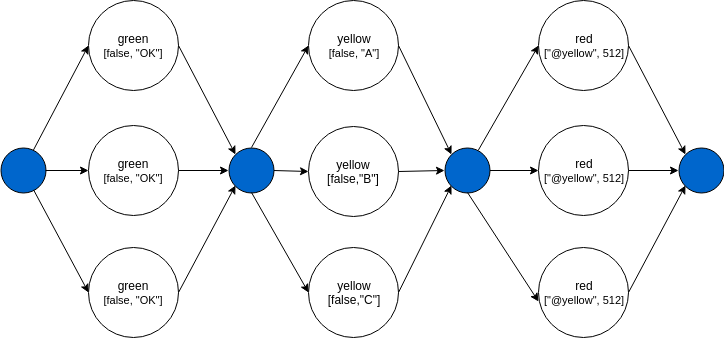
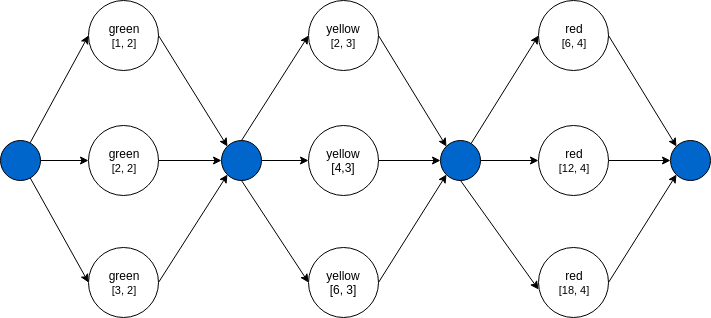
update README.md

diff --git a/core/api-server/README.md b/core/api-server/README.md
@@ -43,8 +43,7 @@ The reasons for choosing this structure are:
 
 ![Diagram](/docs/images/DAG.png)
 
-In order to create this pipeline flow, we need to specify  
-a node list which look like this:  
+In order to create this pipeline flow, we need to specify a node list which look like this:
 
 ```js
 "nodes": [{
@@ -84,7 +83,7 @@ a node list which look like this:
 }]
 ```
 
-*The order of the nodes in this list is not relevant*
+*The order the nodes are written does not relevant*
 
 Each node has three properties.  
 - **nodeName**: the node unique identifier in the current pipeline. 
@@ -100,8 +99,7 @@ Node D will run after Node B and G (["@B", "@G"])
 Node E will run after Node B, C, D (["@B", "@C", "@D"])
 Node F will run after Node E (["@E"])
 
-You can see that the order and the direction of the  
-pipeline is determined by the node **input**.
+You can see that the order and the direction of the pipeline is determined by the node **input**.
 
 ### Entry Nodes
 
@@ -135,13 +133,12 @@ The order is only important for the algorithm signature.
 
 ## Execution Flow
 
-Beside these data types, there are special signs that designed  
-to define the pipeline execution flow.
+Beside these data types, there are special signs that designed to define the pipeline execution flow.
 
-- (@)  - [Reference](#Reference)
-- (#)  - [Batch](#Batch)
-- (#@) - [Batch Reference](#Batch Reference)
-- (*@) - [Wait Any](#Wait Any)
+- (@)  - [Reference](#reference)
+- (#)  - [Batch](#batch)
+- (#@) - [Batch Reference](#batch-reference)
+- (*@) - [Wait Any](#wait-any)
 
 ### Flow Input
 
@@ -188,7 +185,7 @@ Or batch
 }
 ```
 
-Now the example algorithm will run with this input:
+And the algorithm will run three times with this input:
 
 ```js
 example-alg 1: [42, true, ["links-1"], null, {foo: "bar"}]
@@ -223,13 +220,12 @@ The DAG of this pipeline will look like:
 ![Diagram](/docs/images/simple-pipeline.png)
 
 
-The blue circle is the **pipeline driver** which responsible for  
-executing nodes with the right order and the right input.  
-Each result from any node is always return to the pipeline driver which decide what to do next.  
+The blue circle is the **pipeline driver** which responsible for executing nodes with the right order and the right input.  Each result from any node is always return to the pipeline driver which decide what to do next.  
 
-The green node will run first because it does not depend on any other node.  
+**Green node** will run first because it does not depend on any other node.  
 Green node input will be: [false, "OK"].  
-Yellow node depends on green node, see the "@green" in the input of the yellow node.  
+
+**Yellow node** depends on green node, see the "@green" in the input of the yellow node.  
 So the input of the yellow node will be: [true, **green node output**].  
 The last node to run will be the red node because it depend on the completion of  
 the yellow node. The input of the red node will be: [**yellow node output**, 512].  
@@ -279,9 +275,8 @@ The input of the red node will be: [yellow node output, 512].
 
 ## Batch Tolerance
 
-The Batch Tolerance is a threshold setting that allow to  
-control in which **percent** the entire pipeline should be failed.  
-In this example the pipeline will failed if 3/5 from green node batch items has failed. 
+The Batch Tolerance is a threshold setting that allow to control in which **percent** from the batch processing the entire pipeline should be fail.  
+In this example we define batch tolerance of 60%, which means that we allow max of 60% from the batch items to be fail. 
 
 ```js
 "nodes": [{
@@ -298,6 +293,19 @@ In this example the pipeline will failed if 3/5 from green node batch items has 
     "batchTolerance": 60
 }
 ```
+
+Assuming that **Node green** will run and these are the batch items results. 
+
+```js
+green-alg 1: [false, "1"] -> success
+green-alg 2: [false, "2"] -> failed
+green-alg 3: [false, "3"] -> failed
+green-alg 4: [false, "4"] -> failed
+green-alg 5: [false, "5"] -> success
+```
+
+Now the entire pipeline will fail because 3/5 from green node batch items has failed.  
+**Node yellow** will not run in this case.
 
 ### Batch Reference
 
@@ -387,23 +395,22 @@ The DAG of this pipeline will look like:
 "nodes": [{
     "nodeName": "green",
     "algorithmName": "green-alg",
-    "input": [10, "#[1,2,3]"]
+    "input": ["#[1,2,3]", 2]
 },
 {
     "nodeName": "yellow",
     "algorithmName": "yellow-alg",
-    "input": [true, "*@green"]
+    "input": ["#@green", 3]
 },
 {
     "nodeName": "red",
     "algorithmName": "red-alg",
-    "input": ["@yellow", 512]
+    "input": ["#@yellow", 4]
 }]
 ```
 
 The DAG of this pipeline will look like:  
-![Diagram](/docs/images/wait-any.png) 
-
+![Diagram](/docs/images/batch-result2.png) 
 
 
 ### Another Wait Any
@@ -494,9 +501,8 @@ And this is the progress webhook payload
 
 ### Verbosity Level
 
-The Verbosity Level is a setting that allow to control what type of  
-progress events the client will notified about.  
-The severity levels are ascending from least important to most important.
+The Verbosity Level is a setting that allow to control what type of progress events the client will notified about.  
+The severity levels are ascending from least important to most important:
 * silly
 * debug
 * info
@@ -504,8 +510,7 @@ The severity levels are ascending from least important to most important.
 * error
 * critical
 
-If the client specified **debug** level, every progress from debug  
-level and above will be sent to the client.
+If the client specified **debug** level, every progress from debug level and above will be sent to the client.
 
 ```js
 "name": "batch",
@@ -552,10 +557,8 @@ And this is the progress webhook payload
 
 ### Result
 
-The purpose of the result webhook is to update the client  
-when the pipeline is completed.
-
-This is the result webhook payload
+The purpose of the result webhook is to update the client when the pipeline is completed.  
+This is the result webhook payload.
 
 ```js
 {
